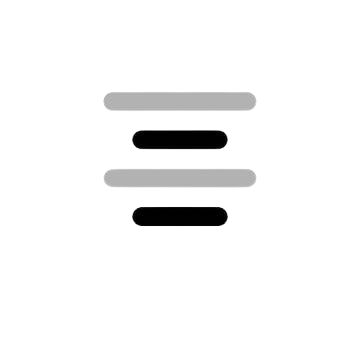
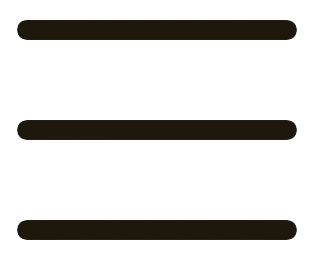
deploy

diff --git a/src/components/sidebar.vue b/src/components/sidebar.vue
@@ -1,10 +1,7 @@
 <template>
   <section :class="['sidebar',{'sidebar--open':open}]">
     <div id ="close" @click="onCroixClick">
-      <svg width="100" height="100" viewBox="0 0 100 100" xmlns="http://www.w3.org/2000/svg">
-      <line x1="20" y1="20" x2="30" y2="30" stroke="black" stroke-width="2" />
-      <line x1="30" y1="20" x2="20" y2="30" stroke="black" stroke-width="2" />
-    </svg>
+      <img src="../../public/croix.png" alt="">
     </div>
 
     <div id = "choix">
@@ -24,7 +21,7 @@
   position: absolute;
   top:64px;
   left: -200px;
-  background-color: #2a303f;
+  background-color: #231a15;
   width: 160px;
   height: 100%;
   z-index: 1;
@@ -40,14 +37,21 @@
 }
 #close{
   position: absolute;
-  right: -60px;
-  top: -10px;
+  right: 0;
+  top: 0;
   cursor: pointer;
 
   &:hover {
-    svg {
-      zoom: 1.5;
+    img {
+      height: 35px;
+      transition:
+          height 0.1s
     }
+  }
+  img{
+    height: 30px;
+    transition:
+        height 0.1s
   }
 }
 
@@ -55,18 +59,16 @@
   position: absolute;
   top: 20px;
   left: -30px;
+
 }
 
 #choix li{
-  display:flex;
-  flex-direction: column;
-  justify-content: space-between;
-  
+
   text-decoration: none;
 
-  &:hover {
+  /*&:hover {
     background-color: rgba(0, 0, 0, 0.3);
-  }
+  }*/
 
   a {
     text-decoration: none;
@@ -85,6 +87,10 @@
 
 #choix ul{
   list-style-type: none;
+  display:flex;
+  flex-direction: column;
+  justify-content: space-between;
+  row-gap: 20px;
 }
 
 </style>

diff --git a/src/components/bandeau.vue b/src/components/bandeau.vue
@@ -1,7 +1,7 @@
 <template>
   <section class="bandeau">
     <button @click="onMenuClick" >
-      <font-awesome-icon icon="faHouse" style="--fa-primary-color: #000000; --fa-secondary-color: #b39031; --fa-secondary-opacity: 0.6;" />
+      <img src="../../public/menu.png" alt="">
       Menu
     </button>
     <div class = "milieu">
@@ -48,7 +48,7 @@
     background-color: #B39031;
   }
   #contact a:hover{
-    border: solid 2px black;
+    border: solid 2px #130e05;
   }
 
   .milieu img{
@@ -73,7 +73,8 @@
   }
 
   button img{
-    height: 50px;
+    height: 15px;
+    margin: 0 3px ;
   }
   button:hover{
     text-decoration: underline;

diff --git a/vite.config.ts b/vite.config.ts
@@ -5,6 +5,7 @@ import vue from '@vitejs/plugin-vue'
 
 // https://vitejs.dev/config/
 export default defineConfig({
+  base: '/',
   plugins: [
     vue(),
   ],

diff --git a/src/views/projects.vue b/src/views/projects.vue
@@ -85,7 +85,7 @@
 }
 .proj{
   position: absolute;
-  left :0;
+  left :20px;
 }
 </style>
 <script setup lang="ts">
